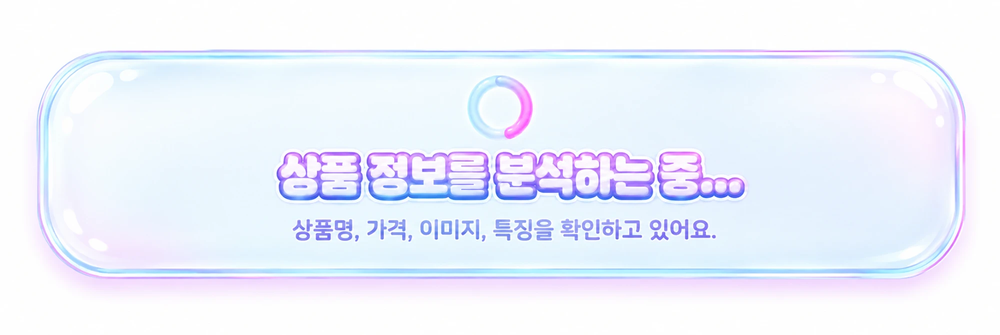
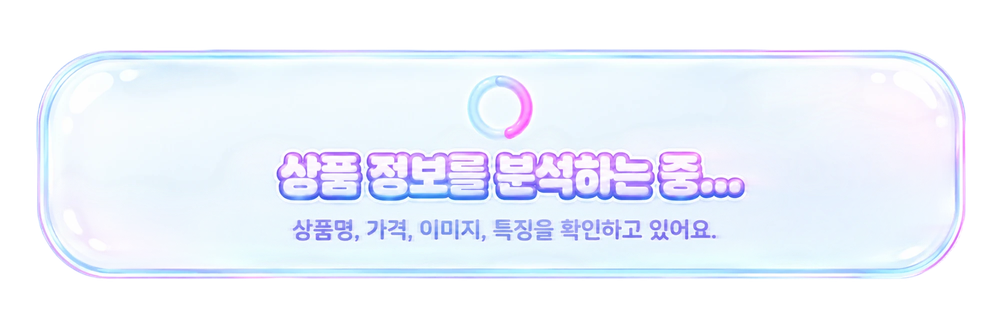
영상 제작 시작/어떤 영상을 만들까요 크기 확대, 분석 중 이미지를 투명 배경 버전으로 교체
- 기존 analyzing-card.png가 불투명(RGB)이라 배경과 흰 박스 이음새가 보였던 것을
  실제 투명 배경(RGBA) 버전으로 교체해 자연스럽게 블렌딩되도록 수정
- 두 요소 모두 데스크탑에서 확실히 커 보이도록 vh 비율 상향, 모바일 스크롤 없음 확인

Claude-Session: https://claude.ai/code/session_019RgKKpBfyx27gSoXqEJwwP

Changed region(s): [[0.062, 0.7761, 0.961, 0.8657]]

diff --git a/webapp/public/css/styles.css b/webapp/public/css/styles.css
@@ -411,7 +411,7 @@ body {
   display: block;
   margin: 0 auto;
   width: 100%;
-  max-width: clamp(320px, 66vh, 560px);
+  max-width: clamp(340px, 76vh, 640px);
   height: auto;
 }
 
@@ -455,7 +455,7 @@ body {
 #start-render-btn {
   display: block;
   width: 100%;
-  max-width: clamp(300px, 58vh, 520px);
+  max-width: clamp(320px, 68vh, 600px);
   margin: 0 auto;
 }
 
